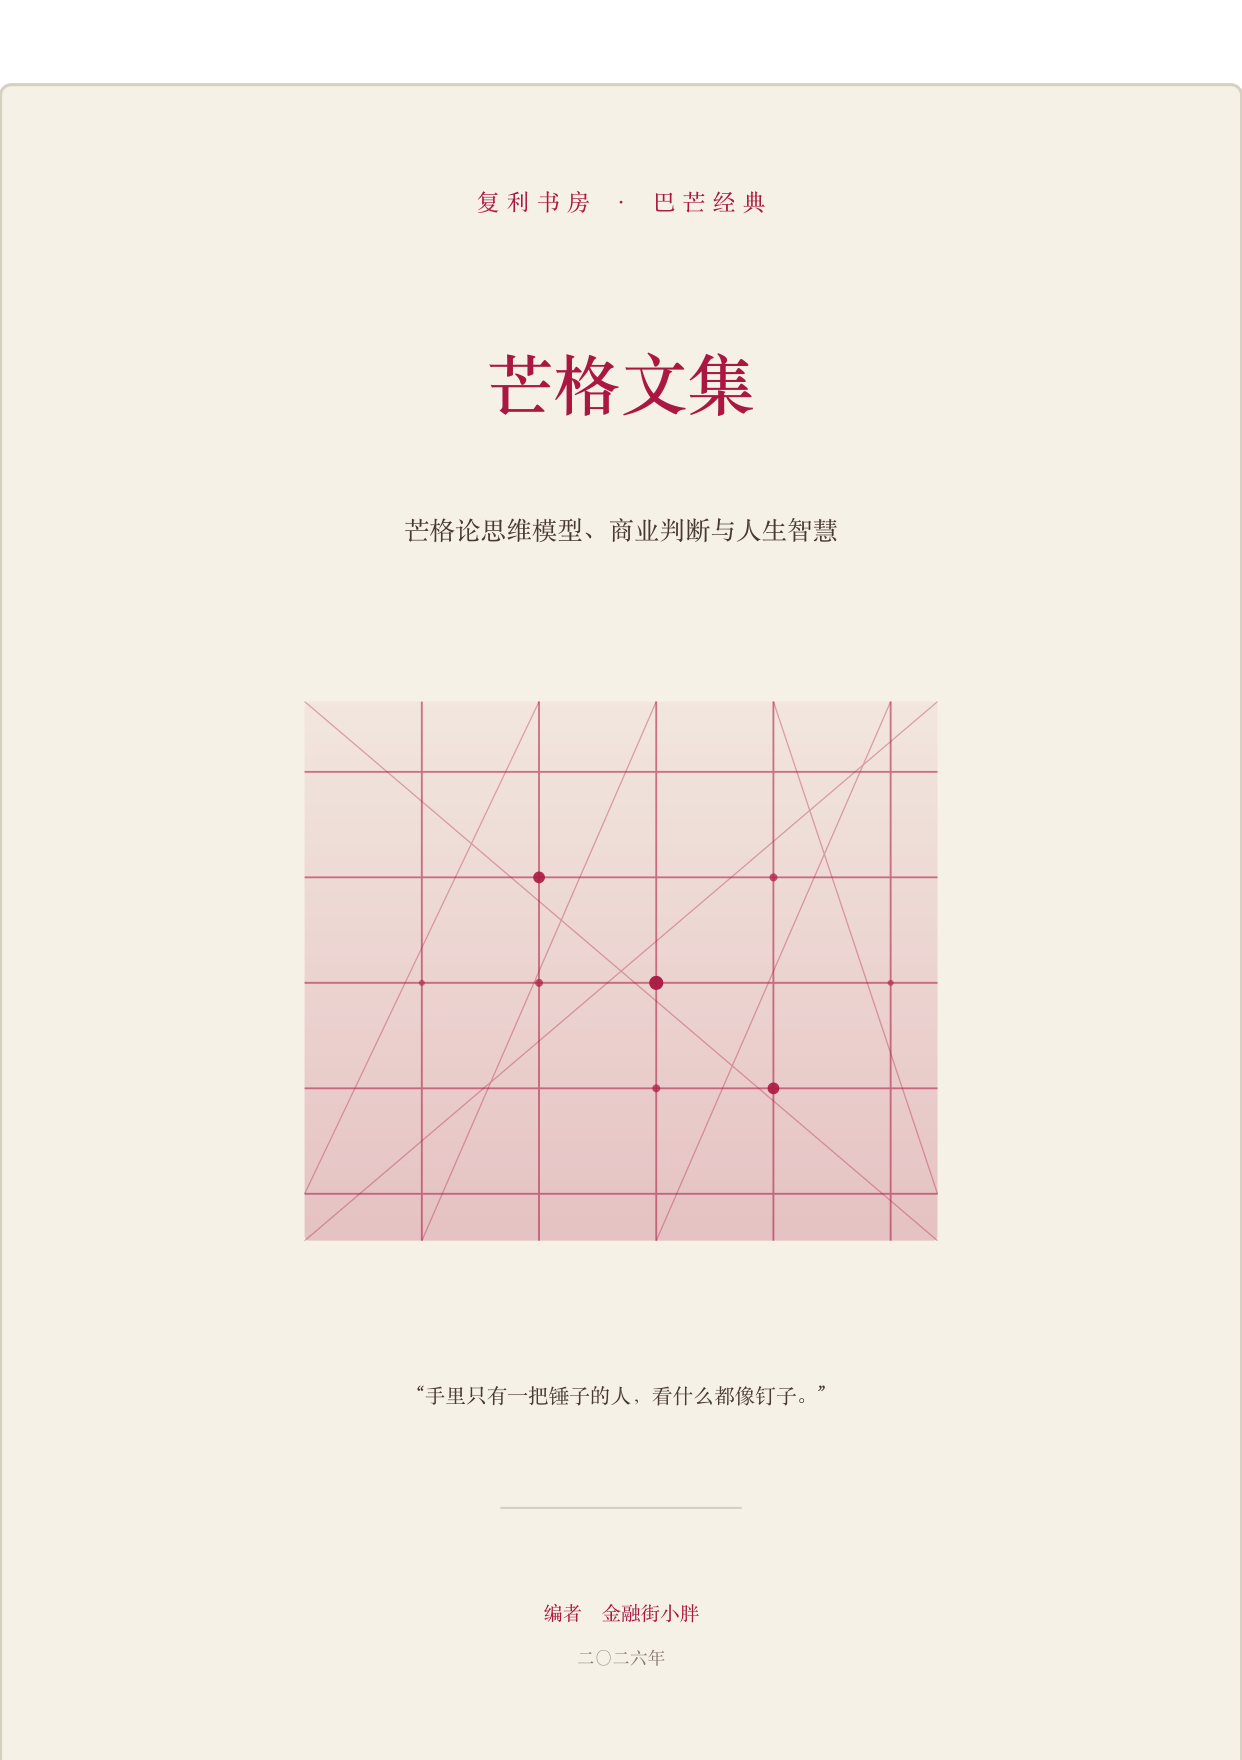
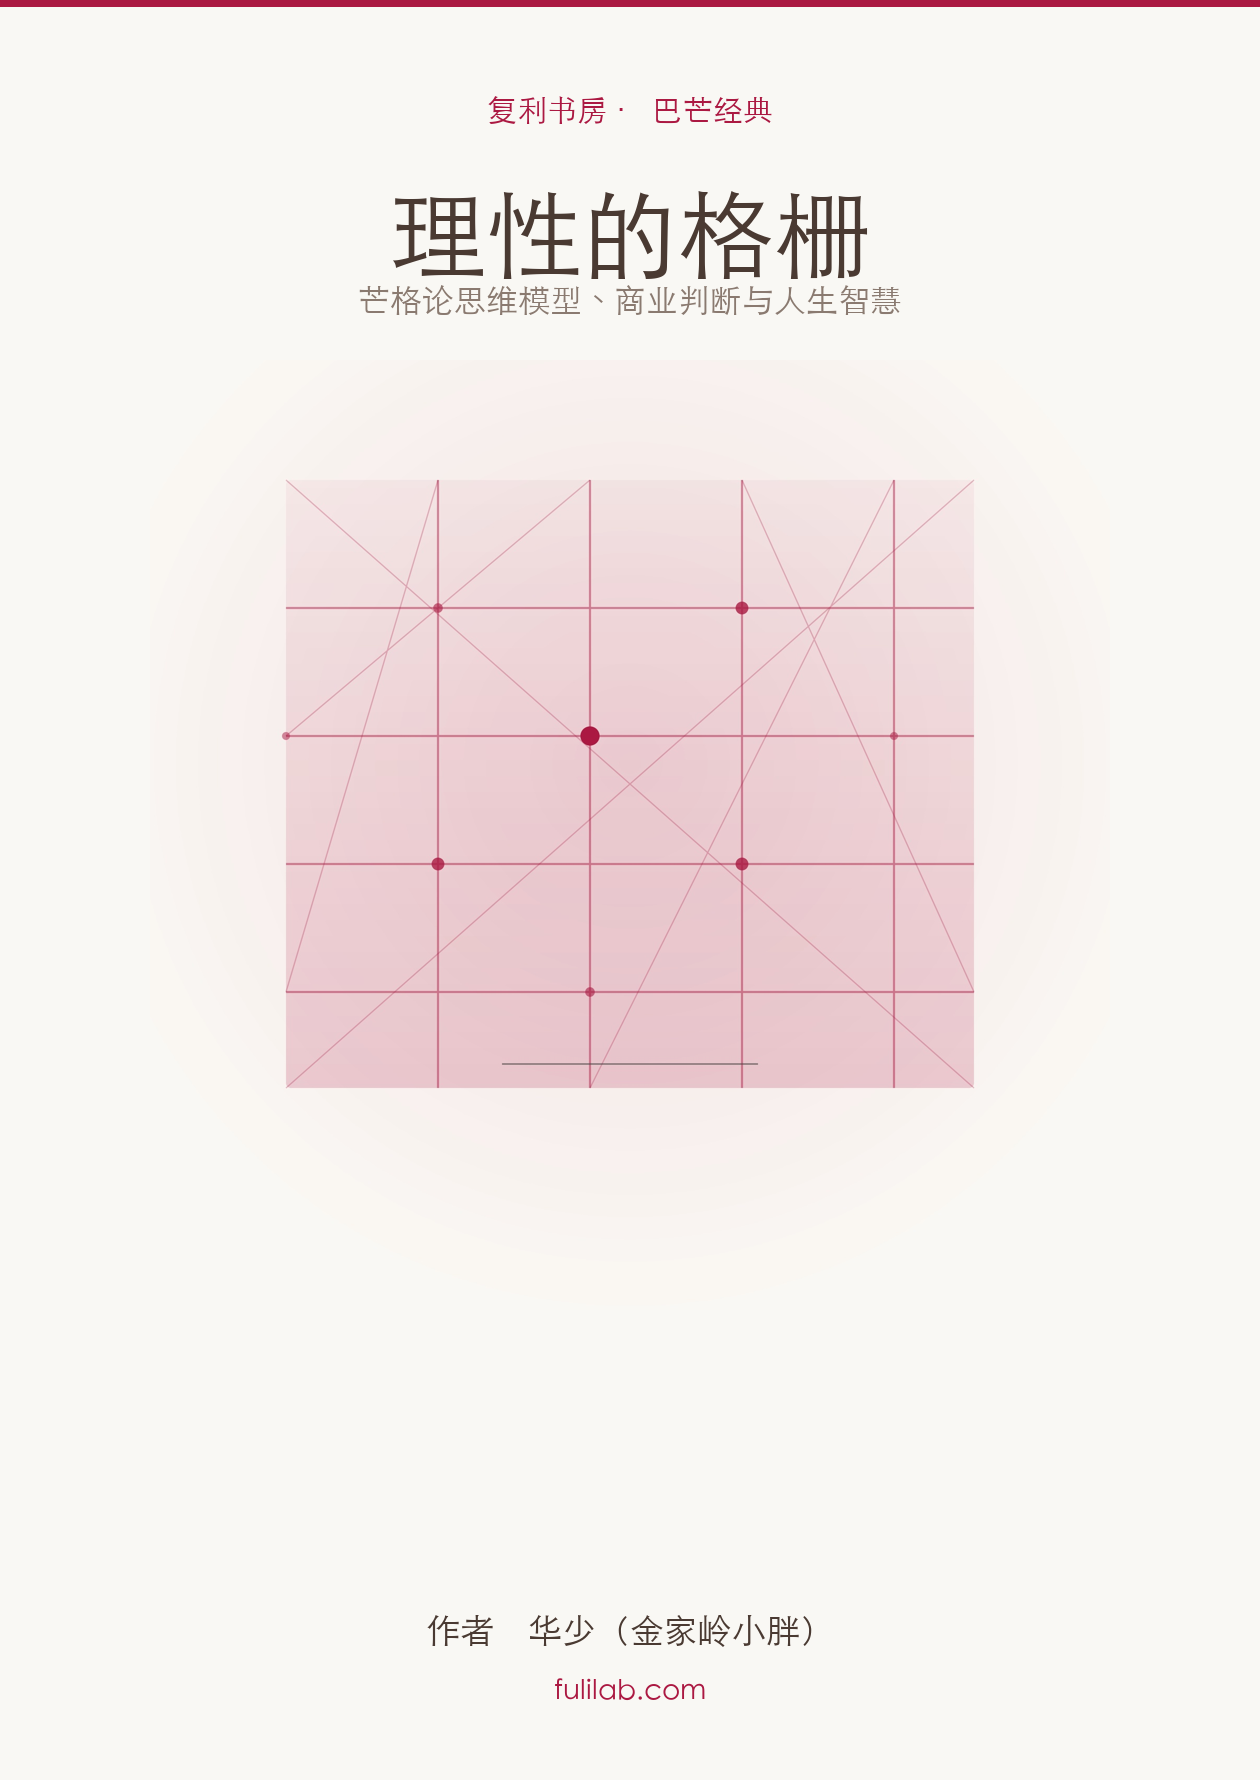
更新电子书封面与预览图：使用新版release-front封面，基于新版PDF重渲预览

diff --git a/scripts/regenerate-ebook-previews.py b/scripts/regenerate-ebook-previews.py
@@ -1,0 +1,38 @@
+#!/usr/bin/env python3
+"""从新版 PDF 重新生成电子书预览图（1100x1556）。"""
+import pymupdf
+from pathlib import Path
+
+ROOT = Path(__file__).resolve().parent.parent
+PDF_DIR = ROOT / "build_books"
+OUT_DIR = ROOT / "public" / "ebook-previews"
+OUT_DIR.mkdir(parents=True, exist_ok=True)
+
+TARGET_W, TARGET_H = 1100, 1556
+
+jobs = [
+    ("所有者的眼光_巴菲特卷.pdf", [1, 3, 13], "buffett"),
+    ("理性的格栅_芒格卷.pdf", [1, 3, 4], "munger"),
+]
+
+for pdf_name, pages, prefix in jobs:
+    pdf_path = PDF_DIR / pdf_name
+    doc = pymupdf.open(pdf_path)
+    for page_num in pages:
+        page = doc[page_num - 1]
+        rect = page.rect
+        scale = TARGET_W / rect.width
+        mat = pymupdf.Matrix(scale, scale)
+        pix = page.get_pixmap(matrix=mat)
+        # 比例一致时 height 应正好等于 TARGET_H；如不一致则按高度居中裁剪
+        if pix.height != TARGET_H:
+            clip_h = TARGET_H / scale
+            clip_y = (rect.height - clip_h) / 2
+            clip = pymupdf.Rect(0, clip_y, rect.width, clip_y + clip_h)
+            pix = page.get_pixmap(matrix=mat, clip=clip)
+        out_path = OUT_DIR / f"{prefix}-p{page_num:02d}.png"
+        pix.save(out_path)
+        print(f"saved {out_path} ({pix.width}x{pix.height})")
+    doc.close()
+
+print("done")
